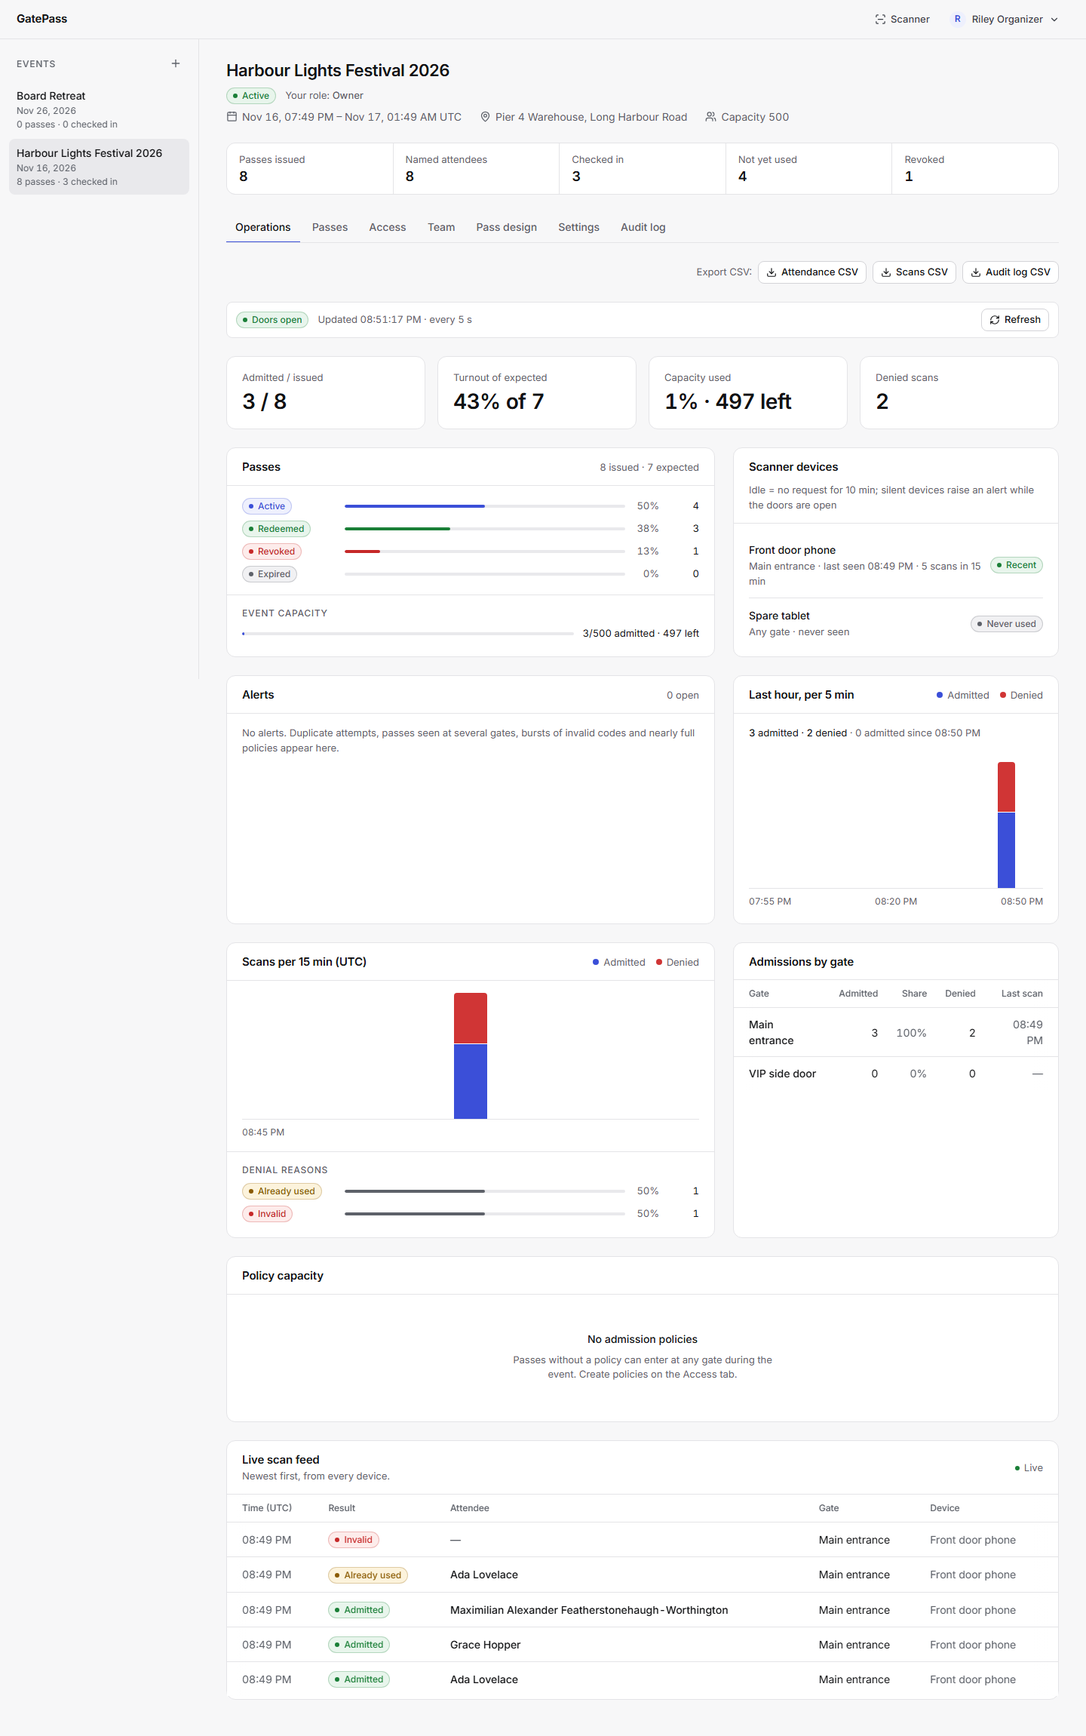
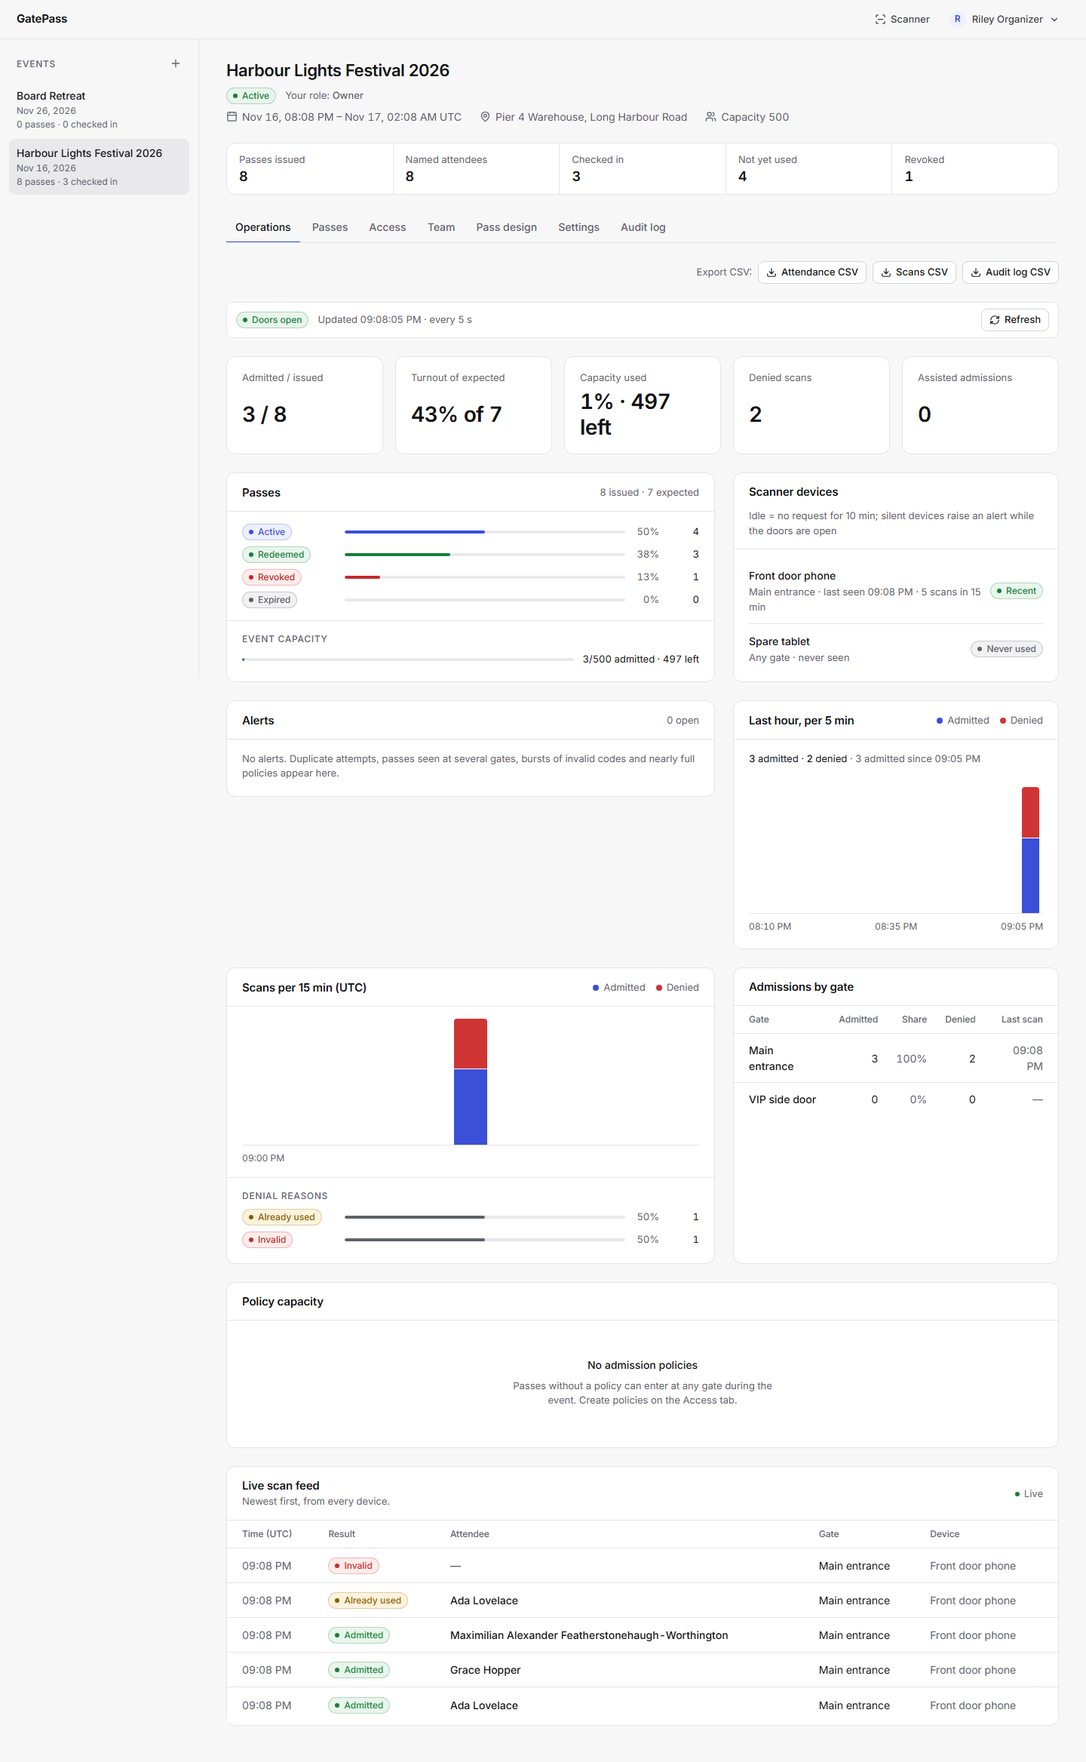
Close the UI review findings in feature screens
- Empty Alerts card keeps its height; dashboard shows assisted admissions; capacity tile shows the percentage only (remaining stays in the capacity card)
- Pass list card has a visible heading; Revoke matches the other row actions while staying red
- describedBy() keeps aria-describedby to hints and errors that are on the page (event, issue, import, settings, template and policy forms)

diff --git a/src/client/admin/AuthScreens.tsx b/src/client/admin/AuthScreens.tsx
@@ -1,7 +1,7 @@
 import { useEffect, useId, useState, type FormEvent, type ReactNode } from 'react';
 import type { AccountUser, InvitationPreview, SessionInfo } from '../../shared/types';
 import { api, ApiError, WAKING_MESSAGE } from '../api';
-import { ErrorNote, FieldError, errorMessage, focusFirstInvalid } from '../ui';
+import { ErrorNote, FieldError, describedBy, errorMessage, focusFirstInvalid } from '../ui';
 import { DemoBanner } from './DemoBanner';
 import { INVITATION_ROLE_LABEL } from './model';
 
@@ -67,7 +67,7 @@ export function PasswordField({ label, value, onChange, autoComplete, error, hin
         onChange={(e) => onChange(e.target.value)}
         required
         aria-invalid={error ? true : undefined}
-        aria-describedby={[hint ? `${id}-hint` : '', error ? `${id}-error` : ''].join(' ').trim() || undefined}
+        aria-describedby={describedBy(hint && `${id}-hint`, error && `${id}-error`)}
       />
       {hint ? (
         <span id={`${id}-hint`} className="field-hint">
@@ -224,12 +224,12 @@ export function SignUp({ demo, onSignedIn }: { demo: boolean; onSignedIn: (sessi
       <form className="stack" onSubmit={submit} noValidate>
         <label>
           Your name
-          <input autoComplete="name" value={name} onChange={(e) => setName(e.target.value)} maxLength={200} required aria-invalid={errors.name ? true : undefined} aria-describedby={errors.name ? `${id}-name` : undefined} />
+          <input autoComplete="name" value={name} onChange={(e) => setName(e.target.value)} maxLength={200} required aria-invalid={errors.name ? true : undefined} aria-describedby={describedBy(errors.name && `${id}-name`)} />
           <FieldError id={`${id}-name`} message={errors.name} />
         </label>
         <label>
           Email
-          <input type="email" autoComplete="email" value={email} onChange={(e) => setEmail(e.target.value)} required aria-invalid={errors.email ? true : undefined} aria-describedby={errors.email ? `${id}-email` : undefined} />
+          <input type="email" autoComplete="email" value={email} onChange={(e) => setEmail(e.target.value)} required aria-invalid={errors.email ? true : undefined} aria-describedby={describedBy(errors.email && `${id}-email`)} />
           <FieldError id={`${id}-email`} message={errors.email} />
         </label>
         <PasswordField label="Password" value={password} onChange={setPassword} autoComplete="new-password" error={errors.password} hint={`At least ${MIN_PASSWORD} characters. A short sentence is easy to remember.`} />
@@ -501,7 +501,7 @@ function CreateInvitedAccount({ email, busy, error, onSubmit }: { email: string;
       </label>
       <label>
         Your name
-        <input autoComplete="name" value={name} onChange={(e) => setName(e.target.value)} maxLength={200} required aria-invalid={errors.name ? true : undefined} aria-describedby={errors.name ? `${id}-name` : undefined} />
+        <input autoComplete="name" value={name} onChange={(e) => setName(e.target.value)} maxLength={200} required aria-invalid={errors.name ? true : undefined} aria-describedby={describedBy(errors.name && `${id}-name`)} />
         <FieldError id={`${id}-name`} message={errors.name} />
       </label>
       <PasswordField label="Choose a password" value={password} onChange={setPassword} autoComplete="new-password" error={errors.password} hint={`At least ${MIN_PASSWORD} characters.`} />

diff --git a/src/client/admin/PoliciesSection.tsx b/src/client/admin/PoliciesSection.tsx
@@ -2,7 +2,7 @@ import { Pencil, Plus, Trash2 } from 'lucide-react';
 import { useState, type FormEvent } from 'react';
 import type { AdmissionPolicy, EventSummary, Gate } from '../../shared/types';
 import { Modal, useConfirm } from '../dialog';
-import { CapacityLine, EmptyState, ErrorNote, FieldError, SectionHead, errorMessage, focusFirstInvalid } from '../ui';
+import { CapacityLine, EmptyState, ErrorNote, FieldError, SectionHead, describedBy, errorMessage, focusFirstInvalid } from '../ui';
 import { formatDateTimeInZone, formatShortInZone, fromZoneInput, toZoneInput, zoneLabel } from '../time';
 import { adminApi } from './http';
 import { can } from './model';
@@ -222,7 +222,7 @@ function PolicyDialog({ event, gates, policy, onClose, onSaved }: DialogProps) {
             required
             placeholder="e.g. VIP, Early entry"
             aria-invalid={errors.name ? true : undefined}
-            aria-describedby="policy-name-error"
+            aria-describedby={describedBy(errors.name && 'policy-name-error')}
           />
           <FieldError id="policy-name-error" message={errors.name} />
         </label>
@@ -233,7 +233,7 @@ function PolicyDialog({ event, gates, policy, onClose, onSaved }: DialogProps) {
             value={opensAt}
             onChange={(e) => setOpensAt(e.target.value)}
             aria-invalid={errors.opensAt ? true : undefined}
-            aria-describedby="policy-opens-hint policy-opens-error"
+            aria-describedby={describedBy('policy-opens-hint', errors.opensAt && 'policy-opens-error')}
           />
           <span id="policy-opens-hint" className="field-hint">
             {label}. Empty: event start ({formatDateTimeInZone(event.startsAt, zone, false)})
@@ -247,7 +247,7 @@ function PolicyDialog({ event, gates, policy, onClose, onSaved }: DialogProps) {
             value={closesAt}
             onChange={(e) => setClosesAt(e.target.value)}
             aria-invalid={errors.closesAt ? true : undefined}
-            aria-describedby="policy-closes-hint policy-closes-error"
+            aria-describedby={describedBy('policy-closes-hint', errors.closesAt && 'policy-closes-error')}
           />
           <span id="policy-closes-hint" className="field-hint">
             {label}. Empty: event end ({formatDateTimeInZone(event.endsAt, zone, false)})
@@ -264,7 +264,7 @@ function PolicyDialog({ event, gates, policy, onClose, onSaved }: DialogProps) {
             value={capacity}
             onChange={(e) => setCapacity(e.target.value)}
             aria-invalid={errors.capacity ? true : undefined}
-            aria-describedby="policy-capacity-hint policy-capacity-error"
+            aria-describedby={describedBy('policy-capacity-hint', errors.capacity && 'policy-capacity-error')}
           />
           <span id="policy-capacity-hint" className="field-hint">
             Empty: no limit.{admitted ? ` ${admitted} already admitted, so it cannot be lower than that.` : ''}

diff --git a/src/client/admin/EventForm.tsx b/src/client/admin/EventForm.tsx
@@ -1,6 +1,6 @@
 import { useId, useMemo, useState, type FormEvent } from 'react';
 import type { EventSummary, EventTemplate } from '../../shared/types';
-import { ErrorNote, FieldError, errorMessage, focusFirstInvalid } from '../ui';
+import { ErrorNote, FieldError, describedBy, errorMessage, focusFirstInvalid } from '../ui';
 import { browserTimeZone, fromZoneInput, listTimeZones, toZoneInput, zoneLabel } from '../time';
 import { adminApi } from './http';
 import { TemplatePicker } from './TemplatePicker';
@@ -110,7 +110,7 @@ export function EventForm({ event, onSaved, onCancel }: Props) {
       <fieldset className="form-grid span-2" disabled={readOnly}>
         <label className="span-2">
           Name
-          <input value={name} onChange={(e) => setName(e.target.value)} maxLength={200} required aria-invalid={errors.name ? true : undefined} aria-describedby={`${id}-name-error`} />
+          <input value={name} onChange={(e) => setName(e.target.value)} maxLength={200} required aria-invalid={errors.name ? true : undefined} aria-describedby={describedBy(errors.name && `${id}-name-error`)} />
           <FieldError id={`${id}-name-error`} message={errors.name} />
         </label>
         <label className="span-2">
@@ -138,13 +138,13 @@ export function EventForm({ event, onSaved, onCancel }: Props) {
             onChange={(e) => setStartsAt(e.target.value)}
             required
             aria-invalid={errors.startsAt ? true : undefined}
-            aria-describedby={`${id}-starts-error`}
+            aria-describedby={describedBy(errors.startsAt && `${id}-starts-error`)}
           />
           <FieldError id={`${id}-starts-error`} message={errors.startsAt} />
         </label>
         <label>
           Ends
-          <input type="datetime-local" value={endsAt} onChange={(e) => setEndsAt(e.target.value)} required aria-invalid={errors.endsAt ? true : undefined} aria-describedby={`${id}-ends-error`} />
+          <input type="datetime-local" value={endsAt} onChange={(e) => setEndsAt(e.target.value)} required aria-invalid={errors.endsAt ? true : undefined} aria-describedby={describedBy(errors.endsAt && `${id}-ends-error`)} />
           <FieldError id={`${id}-ends-error`} message={errors.endsAt} />
         </label>
         <label className="span-2">
@@ -157,7 +157,7 @@ export function EventForm({ event, onSaved, onCancel }: Props) {
             value={capacity}
             onChange={(e) => setCapacity(e.target.value)}
             aria-invalid={errors.capacity ? true : undefined}
-            aria-describedby={`${id}-capacity-hint ${id}-capacity-error`}
+            aria-describedby={describedBy(`${id}-capacity-hint`, errors.capacity && `${id}-capacity-error`)}
           />
           <span id={`${id}-capacity-hint`} className="field-hint">
             Most people admitted across every gate and policy, e.g. the venue limit. Empty: no limit.{admitted ? ` ${admitted} already admitted.` : ''}

diff --git a/src/client/admin/SettingsPanel.tsx b/src/client/admin/SettingsPanel.tsx
@@ -2,7 +2,7 @@ import { Copy } from 'lucide-react';
 import { useState, type FormEvent } from 'react';
 import type { EventStatus, EventSummary } from '../../shared/types';
 import { useConfirm, type ConfirmOptions } from '../dialog';
-import { ErrorNote, FieldError, SectionHead, ToneBadge, errorMessage, focusFirstInvalid } from '../ui';
+import { ErrorNote, FieldError, SectionHead, ToneBadge, describedBy, errorMessage, focusFirstInvalid } from '../ui';
 import { fromZoneInput, toZoneInput, zoneLabel } from '../time';
 import { EventForm } from './EventForm';
 import { adminApi } from './http';
@@ -190,17 +190,17 @@ function CloneSection({ event, onOpenEvent }: { event: EventSummary; onOpenEvent
       <form className="form-grid" onSubmit={submit} noValidate>
         <label className="span-2">
           New event name
-          <input value={name} onChange={(e) => setName(e.target.value)} maxLength={200} aria-invalid={errors.name ? true : undefined} aria-describedby="clone-name-error" />
+          <input value={name} onChange={(e) => setName(e.target.value)} maxLength={200} aria-invalid={errors.name ? true : undefined} aria-describedby={describedBy(errors.name && 'clone-name-error')} />
           <FieldError id="clone-name-error" message={errors.name} />
         </label>
         <label>
           New start
-          <input type="datetime-local" value={startsAt} onChange={(e) => setStartsAt(e.target.value)} aria-invalid={errors.startsAt ? true : undefined} aria-describedby="clone-zone clone-starts-error" />
+          <input type="datetime-local" value={startsAt} onChange={(e) => setStartsAt(e.target.value)} aria-invalid={errors.startsAt ? true : undefined} aria-describedby={describedBy('clone-zone', errors.startsAt && 'clone-starts-error')} />
           <FieldError id="clone-starts-error" message={errors.startsAt} />
         </label>
         <label>
           New end
-          <input type="datetime-local" value={endsAt} onChange={(e) => setEndsAt(e.target.value)} aria-invalid={errors.endsAt ? true : undefined} aria-describedby="clone-zone clone-ends-error" />
+          <input type="datetime-local" value={endsAt} onChange={(e) => setEndsAt(e.target.value)} aria-invalid={errors.endsAt ? true : undefined} aria-describedby={describedBy('clone-zone', errors.endsAt && 'clone-ends-error')} />
           <FieldError id="clone-ends-error" message={errors.endsAt} />
         </label>
         <p id="clone-zone" className="field-hint span-2">

diff --git a/src/client/admin/IssueForm.tsx b/src/client/admin/IssueForm.tsx
@@ -2,7 +2,7 @@ import { Ticket } from 'lucide-react';
 import { useState, type FormEvent } from 'react';
 import type { AdmissionPolicy, EventSummary, IssuedPass } from '../../shared/types';
 import { attendeesFromCsv, parseCsv } from '../csv';
-import { ErrorNote, FieldError, SectionHead, errorMessage, focusFirstInvalid } from '../ui';
+import { ErrorNote, FieldError, SectionHead, describedBy, errorMessage, focusFirstInvalid } from '../ui';
 import { formatDateTimeInZone, fromZoneInput, zoneLabel } from '../time';
 import { announceDeliveries, EmailPassesOption } from './DeliveriesSection';
 import { adminApi } from './http';
@@ -109,7 +109,7 @@ export function IssueForm({ event, policies, onIssued }: Props) {
                 placeholder={'Ada Lovelace, ada@example.com\nGrace Hopper'}
                 required
                 aria-invalid={errors.attendees ? true : undefined}
-                aria-describedby="attendees-hint attendees-error"
+                aria-describedby={describedBy('attendees-hint', errors.attendees && 'attendees-error')}
               />
               <span id="attendees-hint" className="field-hint">
                 One per line: <code>Name, email</code>. Email is optional; quote names that contain commas. Up to {MAX_PASSES} lines.
@@ -129,7 +129,7 @@ export function IssueForm({ event, policies, onIssued }: Props) {
                 onChange={(e) => setCount(e.target.value)}
                 required
                 aria-invalid={errors.count ? true : undefined}
-                aria-describedby="count-hint count-error"
+                aria-describedby={describedBy('count-hint', errors.count && 'count-error')}
               />
               <span id="count-hint" className="field-hint">
                 1–{MAX_PASSES}
@@ -147,7 +147,7 @@ export function IssueForm({ event, policies, onIssued }: Props) {
               value={expiresAt}
               onChange={(e) => setExpiresAt(e.target.value)}
               aria-invalid={errors.expiresAt ? true : undefined}
-              aria-describedby="issue-expiry-hint issue-expiry-error"
+              aria-describedby={describedBy('issue-expiry-hint', errors.expiresAt && 'issue-expiry-error')}
             />
             <span id="issue-expiry-hint" className="field-hint">
               In {zoneLabel(event.timeZone, event.endsAt)}. Empty: event end ({formatDateTimeInZone(event.endsAt, event.timeZone, false)})

diff --git a/src/client/admin/OperationsPanel.tsx b/src/client/admin/OperationsPanel.tsx
@@ -177,8 +177,9 @@ function Summary({ summary, zone }: { summary: OperationsSummary; zone: string }
       <div className="stats stats-lg">
         <Stat label="Admitted / issued" value={`${passes.redeemed} / ${passes.issued}`} />
         <Stat label="Turnout of expected" value={attendance.rate === null ? '—' : `${percent(attendance.rate)} of ${attendance.expected}`} />
-        <Stat label="Capacity used" value={capacity.limit === null ? 'No limit' : `${percent(capacity.admitted / capacity.limit)} · ${capacity.remaining} left`} />
+        <Stat label="Capacity used" value={capacity.limit === null ? 'No limit' : percent(capacity.admitted / capacity.limit)} />
         <Stat label="Denied scans" value={totals.denied} />
+        <Stat label="Assisted admissions" value={summary.assistedAdmissions} />
       </div>
       <div className="ops-grid">
         <PassStates passes={passes} capacity={capacity} expected={attendance.expected} />
@@ -325,7 +326,7 @@ function Scanners({ scanners, zone }: { scanners: OperationsSummary['scanners'];
 
 function Alerts({ alerts, zone }: { alerts: OperationsSummary['alerts']; zone: string }) {
   return (
-    <section className="card" aria-labelledby="alerts-title">
+    <section className={`card${alerts.length === 0 ? ' ops-alerts-empty' : ''}`} aria-labelledby="alerts-title">
       <SectionHead id="alerts-title" title="Alerts">
         <span className="card-meta num">{alerts.length} open</span>
       </SectionHead>

diff --git a/src/client/admin/SaveTemplateSection.tsx b/src/client/admin/SaveTemplateSection.tsx
@@ -1,7 +1,7 @@
 import { BookmarkPlus } from 'lucide-react';
 import { useId, useState, type FormEvent } from 'react';
 import type { EventSummary, EventTemplate } from '../../shared/types';
-import { ErrorNote, FieldError, SectionHead, errorMessage, focusFirstInvalid } from '../ui';
+import { ErrorNote, FieldError, SectionHead, describedBy, errorMessage, focusFirstInvalid } from '../ui';
 import { adminApi } from './http';
 import { useToast } from './toast';
 import './templates.css';
@@ -47,7 +47,7 @@ export function SaveTemplateSection({ event }: { event: EventSummary }) {
       <form className="form-grid" onSubmit={submit} noValidate>
         <label className="span-2">
           Template name
-          <input value={name} onChange={(e) => setName(e.target.value)} maxLength={100} aria-invalid={nameError ? true : undefined} aria-describedby={`${id}-name-error`} />
+          <input value={name} onChange={(e) => setName(e.target.value)} maxLength={100} aria-invalid={nameError ? true : undefined} aria-describedby={describedBy(nameError && `${id}-name-error`)} />
           <FieldError id={`${id}-name-error`} message={nameError} />
         </label>
         <label className="span-2">

diff --git a/src/client/admin/ImportPasses.tsx b/src/client/admin/ImportPasses.tsx
@@ -3,7 +3,7 @@ import { useId, useState, type FormEvent } from 'react';
 import type { AdmissionPolicy, EventSummary, ImportReport, IssuedPass } from '../../shared/types';
 import { attendeesFromCsv, parseCsv, type ParsedAttendees } from '../csv';
 import { Modal } from '../dialog';
-import { ErrorNote, FieldError, TableMessage, ToneBadge, errorMessage } from '../ui';
+import { ErrorNote, FieldError, TableMessage, ToneBadge, describedBy, errorMessage } from '../ui';
 import { fromZoneInput, zoneLabel } from '../time';
 import { announceDeliveries, EmailPassesOption } from './DeliveriesSection';
 import { adminApi } from './http';
@@ -222,7 +222,7 @@ export function ImportPasses({ event, policies, onClose, onImported }: Props) {
             onChange={(e) => setText(e.target.value)}
             placeholder={'Name,Email\n"Lovelace, Ada",ada@example.com\nGrace Hopper,grace@example.com'}
             aria-invalid={inputError ? true : undefined}
-            aria-describedby={`${id}-error`}
+            aria-describedby={describedBy(inputError && `${id}-error`)}
           />
           <FieldError id={`${id}-error`} message={inputError} />
         </label>

diff --git a/src/client/admin/PassesPanel.tsx b/src/client/admin/PassesPanel.tsx
@@ -2,7 +2,7 @@ import { Ban, ChevronLeft, ChevronRight, Download, FileUp, RefreshCw, Search, Sh
 import { useCallback, useEffect, useRef, useState, type FormEvent } from 'react';
 import type { AdmissionPolicy, EventSummary, IssuedPass, Pass, PassStatus } from '../../shared/types';
 import { Modal, useConfirm } from '../dialog';
-import { ErrorNote, PassStatusBadge, TableMessage, errorMessage } from '../ui';
+import { ErrorNote, PassStatusBadge, SectionHead, TableMessage, errorMessage } from '../ui';
 import { formatShortInZone, zoneLabel } from '../time';
 import { DeliveriesSection } from './DeliveriesSection';
 import { useDebounced, useResource } from './hooks';
@@ -203,7 +203,8 @@ export function PassesPanel({ event, onChanged }: Props) {
           <p className="notice">{ISSUE_BLOCKED[event.status]}</p>
         )}
 
-        <section className="card" aria-label="Passes">
+        <section className="card" aria-labelledby="pass-list-title">
+          <SectionHead id="pass-list-title" title="Passes" />
           <div className="toolbar">
             <label className="grow search">
               <span className="sr-only">Search passes</span>

diff --git a/src/client/admin/ScannersSection.tsx b/src/client/admin/ScannersSection.tsx
@@ -200,7 +200,7 @@ export function ScannersSection({ event, gates, onChanged }: { event: EventSumma
                         <button className="btn btn-ghost btn-small" onClick={() => void rotate(scanner)} disabled={pending === scanner.id} aria-label={`${scanner.setup === 'enrolled' || scanner.setup === 'legacy' ? 'Rotate key' : 'New setup link'} for ${scanner.label}`}>
                           <KeyRound size={14} aria-hidden /> {scanner.setup === 'enrolled' || scanner.setup === 'legacy' ? 'Rotate key' : 'New setup link'}
                         </button>
-                        <button className="btn btn-secondary btn-small danger" onClick={() => void revoke(scanner)} disabled={pending === scanner.id} aria-label={`Revoke ${scanner.label}`}>
+                        <button className="btn btn-ghost btn-small danger" onClick={() => void revoke(scanner)} disabled={pending === scanner.id} aria-label={`Revoke ${scanner.label}`}>
                           <Ban size={14} aria-hidden /> Revoke
                         </button>
                       </>

diff --git a/src/client/ui.tsx b/src/client/ui.tsx
@@ -64,6 +64,11 @@ export function FieldError({ id, message }: { id: string; message?: string }) {
   ) : null;
 }
 
+/** `aria-describedby` naming only the hints and messages that are rendered; a reference to an absent id is invalid ARIA. */
+export function describedBy(...ids: Array<string | false | null | undefined>): string | undefined {
+  return ids.filter(Boolean).join(' ') || undefined;
+}
+
 /** After a failed submit, moves focus to the first invalid control once React has rendered the messages. */
 export function focusFirstInvalid(form: HTMLFormElement) {
   requestAnimationFrame(() => form.querySelector<HTMLElement>('[aria-invalid="true"]')?.focus());

diff --git a/src/client/admin/operations.css b/src/client/admin/operations.css
@@ -20,3 +20,6 @@
 .ops-facts > div { display: grid; gap: 2px; min-width: 0; }
 .ops-facts dt { font-size: var(--text-sm); color: var(--muted); }
 .ops-facts dd { margin: 0; font-size: var(--text-md); font-weight: 600; overflow-wrap: anywhere; }
+
+/* No alerts: the card keeps its own height instead of stretching to the chart beside it. */
+.ops-alerts-empty { align-self: start; }
